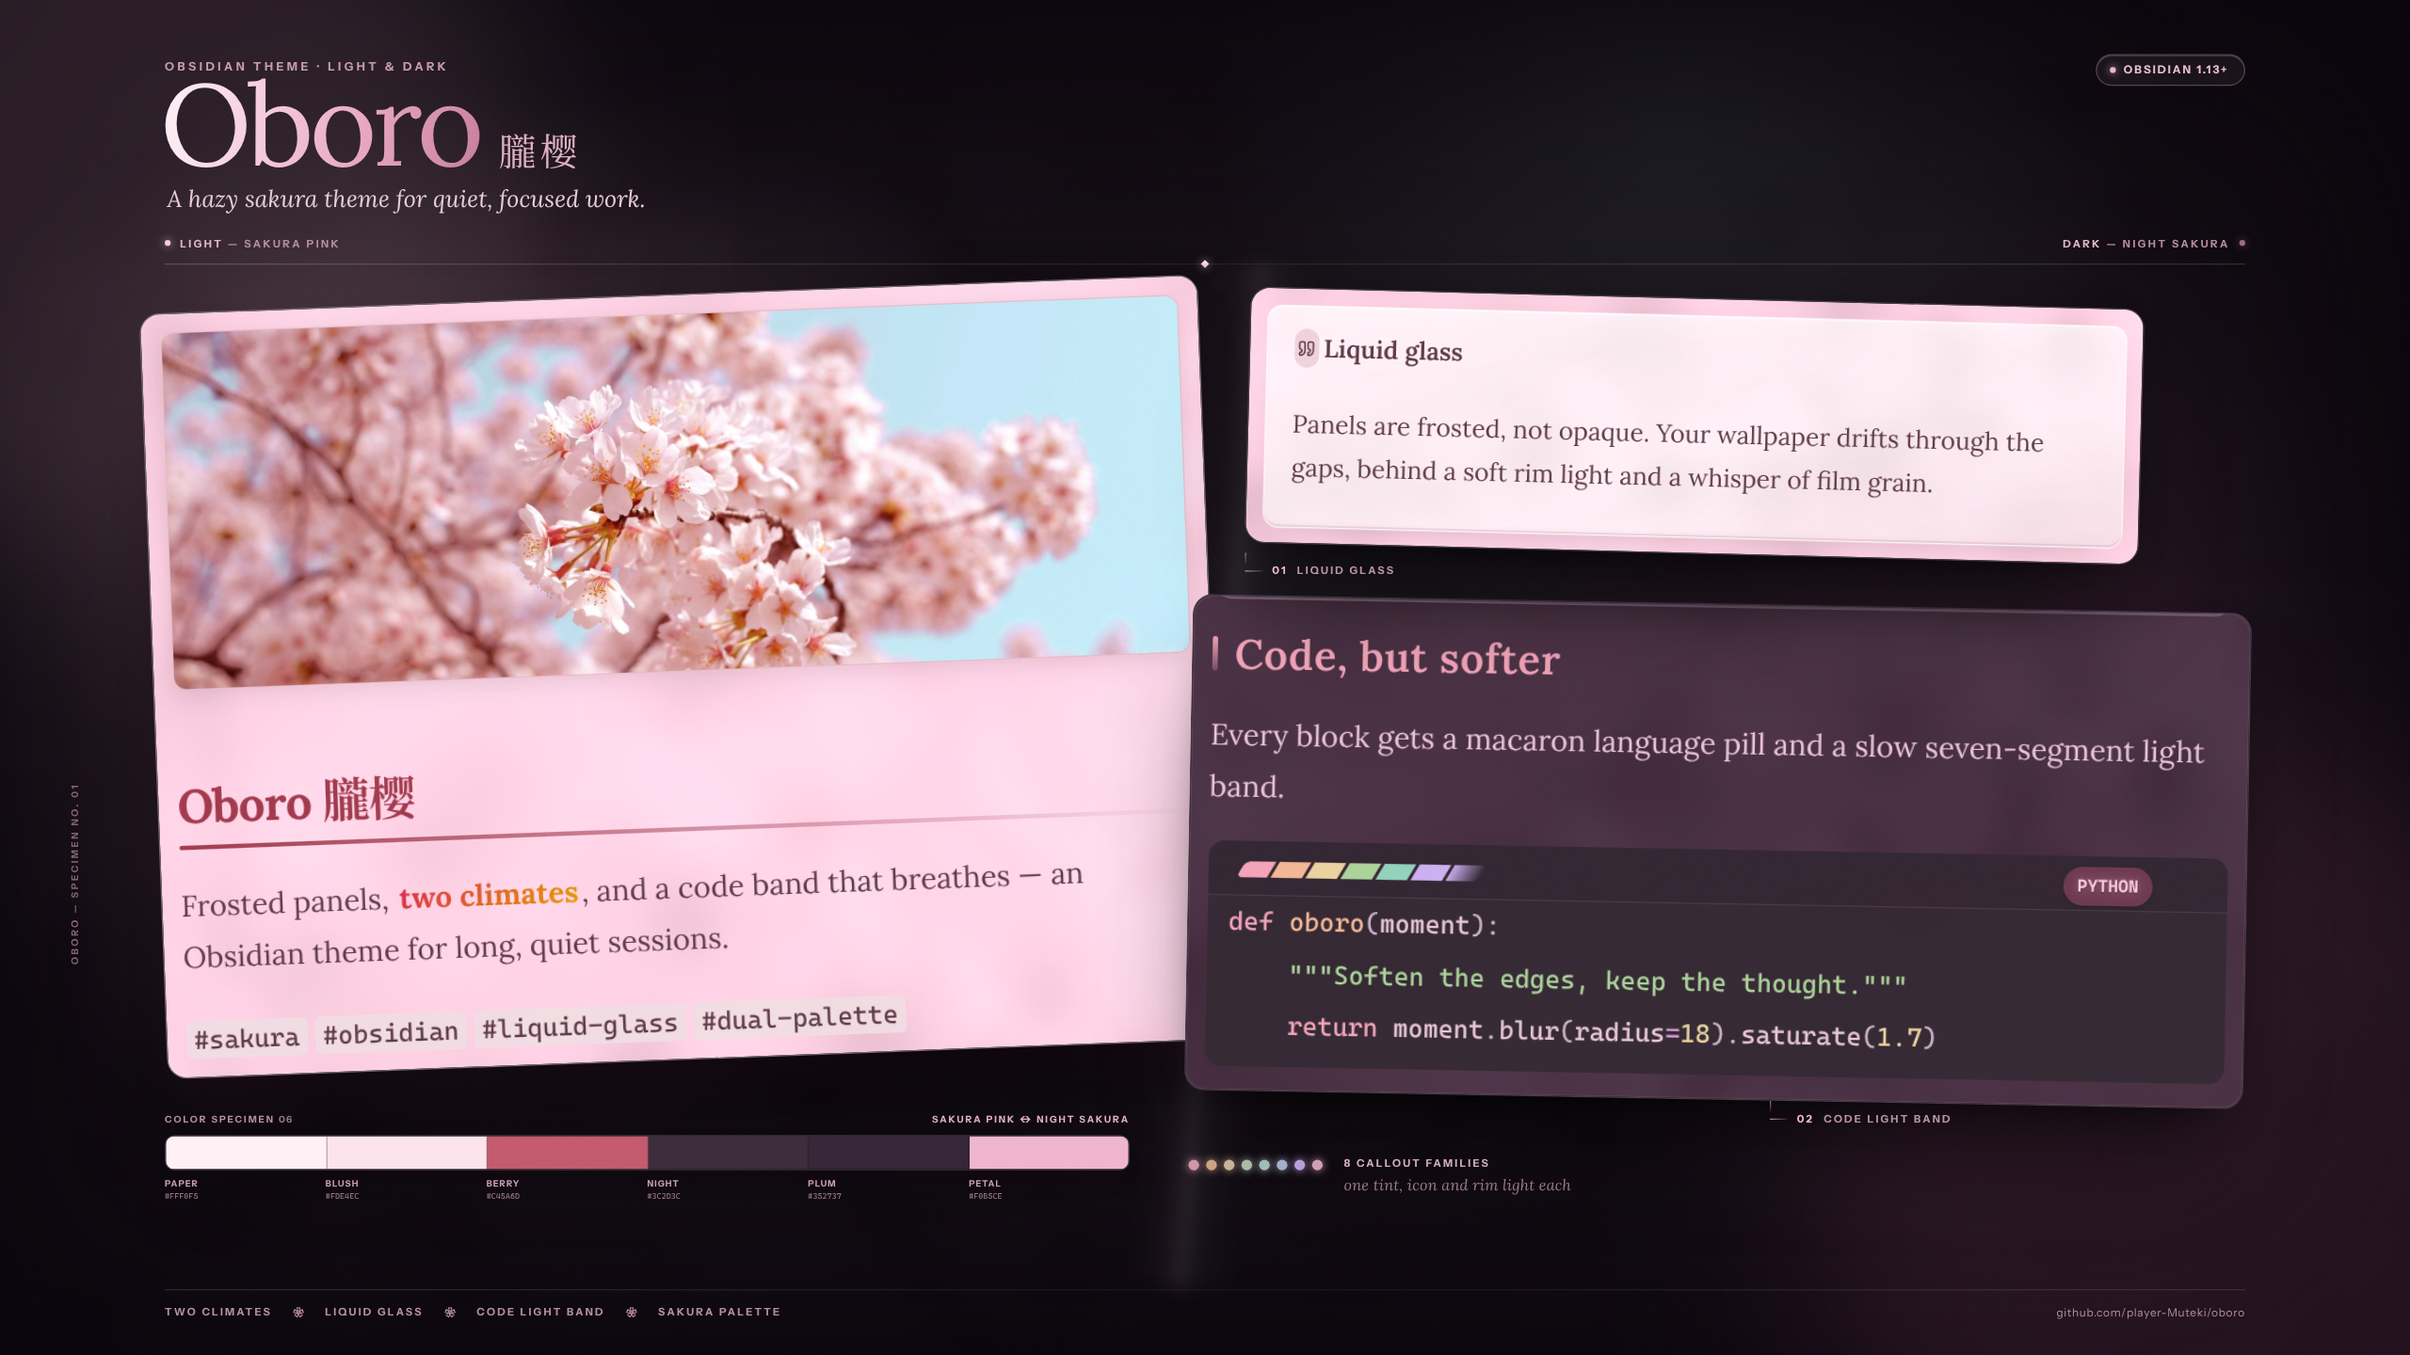
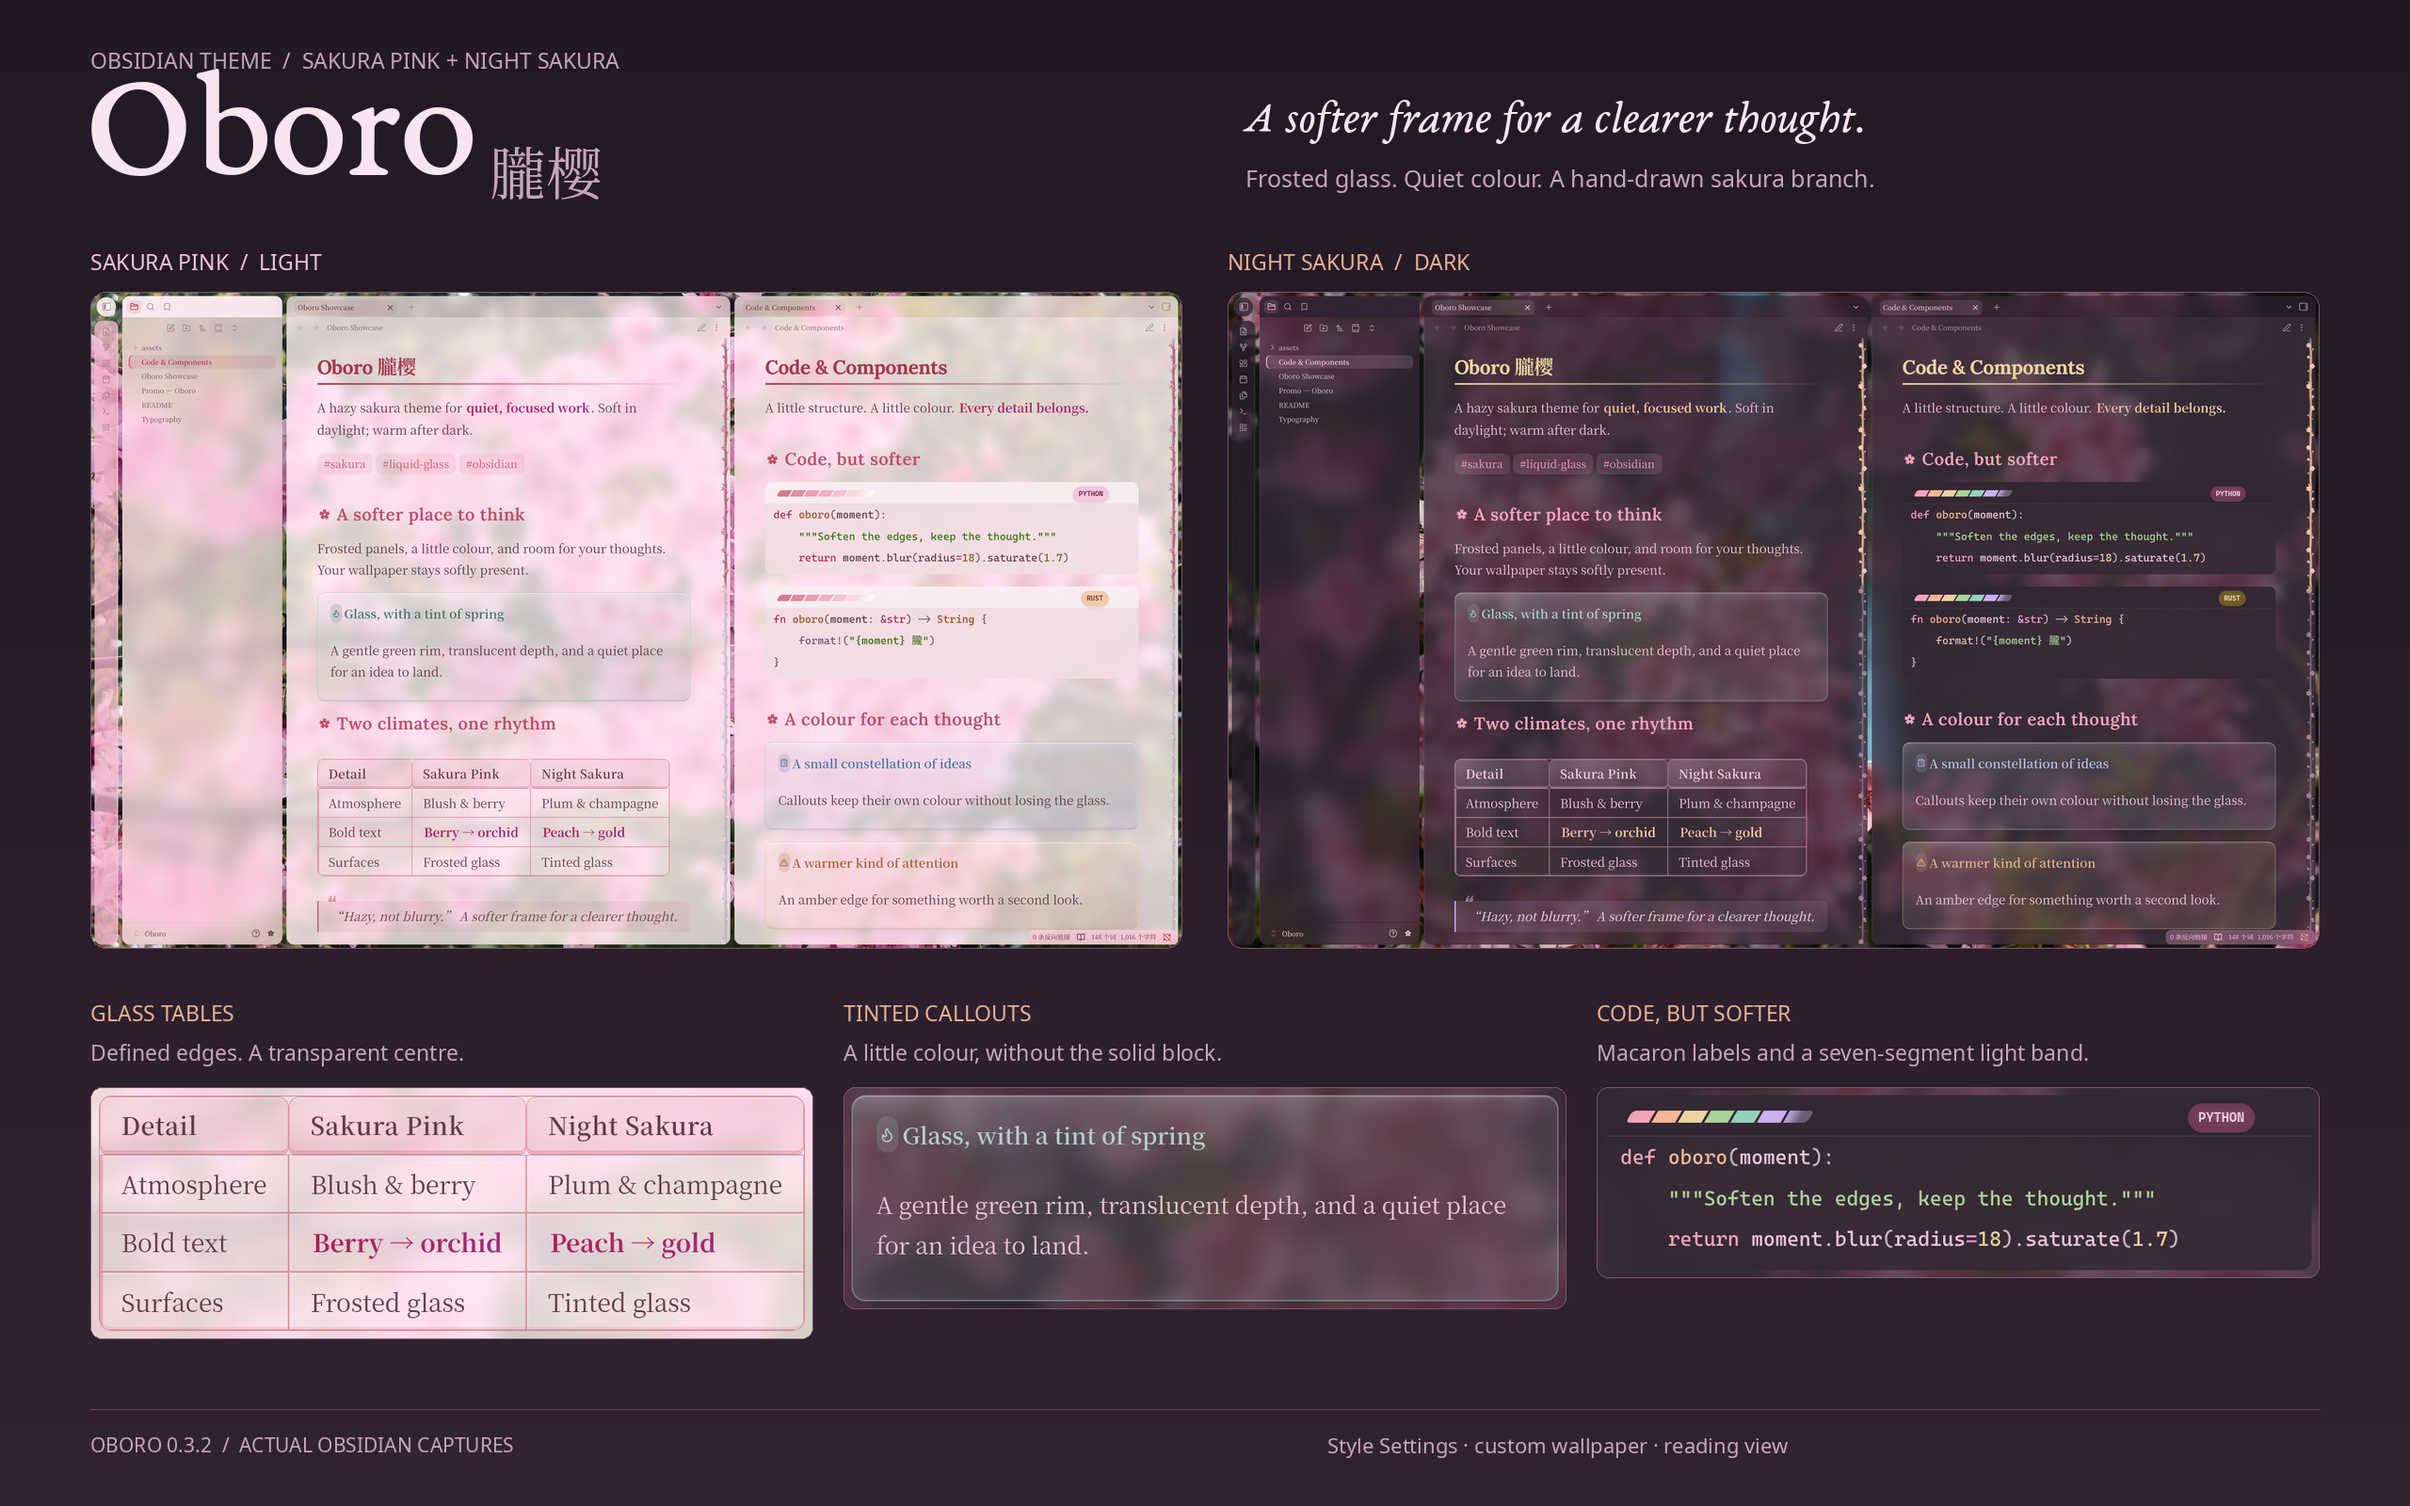
docs: 更新实装截图与樱枝细节配图

diff --git a/scripts/build-promo.py b/scripts/build-promo.py
@@ -1,0 +1,131 @@
+#!/usr/bin/env python3
+"""Compose documentation artwork from real captures and the scrollbar SVG master.
+
+Requires Pillow, Fontconfig, Inkscape. Never retouches the captured UI.
+Run from any directory: python3 scripts/build-promo.py
+"""
+import io
+import json
+from pathlib import Path
+import subprocess
+import sys
+import tempfile
+
+from PIL import Image, ImageDraw, ImageFont
+
+sys.dont_write_bytecode = True
+from scrollbar_art import render_art
+
+ROOT = Path(__file__).resolve().parent.parent
+OUT = ROOT / 'screenshots'
+META = json.loads((OUT / 'capture.json').read_text())
+INK = '#F7E6EF'
+MUTED = '#C5A7B8'
+ACCENT = '#E6B397'
+
+
+def font(family, size):
+    path = subprocess.check_output(
+        ['fc-match', family, '-f', '%{file}'], text=True).strip()
+    return ImageFont.truetype(path, size)
+
+
+def text(canvas, xy, value, size=26, color=INK, family='Noto Sans'):
+    ImageDraw.Draw(canvas).text(xy, value, fill=color, font=font(family, size))
+
+
+def background(size):
+    canvas = Image.new('RGB', size)
+    draw = ImageDraw.Draw(canvas)
+    top, bottom = (35, 24, 37), (50, 34, 49)
+    for y in range(size[1]):
+        t = y / (size[1] - 1)
+        color = tuple(round(a + (b - a) * t) for a, b in zip(top, bottom))
+        draw.line((0, y, size[0], y), fill=color)
+    return canvas
+
+
+def framed(canvas, source, xy, width, radius=16):
+    image = source.resize((width, round(source.height * width / source.width)),
+                          Image.Resampling.LANCZOS)
+    mask = Image.new('L', image.size)
+    ImageDraw.Draw(mask).rounded_rectangle((0, 0, image.width - 1, image.height - 1),
+                                          radius=radius, fill=255)
+    canvas.paste(image, xy, mask)
+    x, y = xy
+    ImageDraw.Draw(canvas).rounded_rectangle(
+        (x, y, x + image.width - 1, y + image.height - 1),
+        radius=radius, outline='#765566', width=1)
+
+
+def crop(source, name, padding=8):
+    rect = META['rects'][name]
+    scale = META['viewport']['deviceScaleFactor']
+    x, y, w, h = (rect[k] for k in ('x', 'y', 'width', 'height'))
+    return source.crop(tuple(round(v * scale) for v in
+                       (x - padding, y - padding, x + w + padding, y + h + padding)))
+
+
+def promo(light, dark):
+    canvas = background((2560, 1600))
+    draw = ImageDraw.Draw(canvas)
+    text(canvas, (96, 48), 'OBSIDIAN THEME  /  SAKURA PINK + NIGHT SAKURA', 23, MUTED)
+    text(canvas, (89, 66), 'Oboro', 164, family='EB Garamond')
+    text(canvas, (520, 137), '朧樱', 60, MUTED, 'Noto Serif CJK SC')
+    text(canvas, (1320, 105), 'A softer frame for a clearer thought.', 48,
+         family='EB Garamond:style=Italic')
+    text(canvas, (1323, 172), 'Frosted glass. Quiet colour. A hand-drawn sakura branch.', 25, MUTED)
+    text(canvas, (96, 262), 'SAKURA PINK  /  LIGHT', 23, '#F0C7D9')
+    text(canvas, (1304, 262), 'NIGHT SAKURA  /  DARK', 23, ACCENT)
+    framed(canvas, light, (96, 310), 1160)
+    framed(canvas, dark, (1304, 310), 1160)
+    details = [
+        (96, 'GLASS TABLES', 'Defined edges. A transparent centre.', crop(light, 'table')),
+        (896, 'TINTED CALLOUTS', 'A little colour, without the solid block.', crop(dark, 'callout')),
+        (1696, 'CODE, BUT SOFTER', 'Macaron labels and a seven-segment light band.', crop(dark, 'code')),
+    ]
+    for x, title, subtitle, image in details:
+        text(canvas, (x, 1060), title, 23, ACCENT)
+        text(canvas, (x, 1102), subtitle, 23, MUTED)
+        framed(canvas, image, (x, 1155), 768, 12)
+    draw.line((96, 1497, 2464, 1497), fill='#634655')
+    text(canvas, (96, 1520), f"OBORO {META['version']}  /  ACTUAL OBSIDIAN CAPTURES", 21, MUTED)
+    text(canvas, (1410, 1520), 'Style Settings · custom wallpaper · reading view', 22, MUTED)
+    canvas.save(OUT / 'promo.png', optimize=True)
+
+
+def scrollbar_detail():
+    canvas = background((2000, 1300))
+    text(canvas, (80, 45), 'OBORO  /  SCROLLBAR ART STUDY', 22, MUTED)
+    text(canvas, (75, 72), 'A branch, not a bar.', 104, family='EB Garamond')
+    text(canvas, (82, 214), 'The painting stays still. Your place changes its colour.', 29, MUTED)
+    for index, (mode, active) in enumerate(
+            [('light', False), ('light', True), ('dark', False), ('dark', True)]):
+        x = 80 + index * 470
+        panel = '#FFF0F5' if mode == 'light' else '#3C2D3C'
+        ink = '#7F405B' if mode == 'light' else '#EBC4D7'
+        ImageDraw.Draw(canvas).rounded_rectangle((x, 302, x + 430, 1150),
+                                                radius=18, fill=panel)
+        text(canvas, (x + 30, 329), mode.upper(), 22, ink)
+        text(canvas, (x + 30, 370), 'YOUR PLACE' if active else 'AT REST', 22, ink)
+        with tempfile.TemporaryDirectory(prefix='oboro-art-export-') as folder:
+            svg, png = Path(folder) / 'branch.svg', Path(folder) / 'branch.png'
+            svg.write_text(render_art(mode, active))
+            subprocess.run(['inkscape', str(svg), '--export-type=png',
+                            f'--export-filename={png}', '--export-width=63',
+                            '--export-height=672'], check=True, capture_output=True)
+            art = Image.open(io.BytesIO(png.read_bytes())).convert('RGBA')
+            canvas.paste(art, (x + 183, 445), art)
+    text(canvas, (80, 1190), 'One original drawing · four palettes · identical geometry', 25, MUTED)
+    text(canvas, (80, 1233), 'SVG artwork enlarged 3.5× for detail; not a screenshot or the actual scrollbar size.', 21, MUTED)
+    canvas.save(OUT / 'scrollbar-detail.png', optimize=True)
+
+
+if __name__ == '__main__':
+    with Image.open(OUT / 'screenshot-light.png') as light, Image.open(OUT / 'screenshot-dark.png') as dark:
+        expected = tuple(round(META['viewport'][k] * META['viewport']['deviceScaleFactor'])
+                         for k in ('width', 'height'))
+        assert light.size == dark.size == expected, 'Capture metadata and images must match'
+        promo(light, dark)
+    scrollbar_detail()
+    print('Updated screenshots/promo.png and screenshots/scrollbar-detail.png')

diff --git a/screenshots/README.md b/screenshots/README.md
@@ -1,0 +1,64 @@
+# Preview assets / 截图与配图
+
+Updated **2026-11-01**, for **Oboro 0.3.2**.
+
+## What is shown
+
+- `screenshot-light.png` / `screenshot-dark.png`: actual **Obsidian 1.14.5** captures of
+  an isolated demonstration vault, with two notes in reading view. No private notes are shown.
+- `promo.png`: an editorial composition of those captures and crops of their table, callout
+  and code block. UI pixels are not repainted or replaced with mockups.
+- `scrollbar-detail.png`: the actual scrollbar SVG master rendered in all four theme palettes,
+  **enlarged 3.5×**. This is an artwork study, **not** an application screenshot, not the actual
+  scrollbar size and not a demonstration of thumb movement or its end fades.
+- `capture.json`: capture dimensions, typography, glass parameters and crop rectangles in
+  CSS pixels. The composition script uses these instead of guessing coordinates.
+
+## Capture configuration / 截图配置
+
+The demonstration vault uses the released `theme.css` and `manifest.json`, plus
+**Style Settings 1.0.9**. Only the theme's `oboro@@…` settings were copied from the daily vault;
+no unrelated plugins, notes or dashboard snippets were copied.
+
+| Setting | Value |
+| --- | --- |
+| Main panel opacity / 主面板实度 | 80% |
+| Sidebar opacity / 侧栏实度 | 72% |
+| Solid mode / 实色模式 | Off |
+| Glass saturation / 玻璃饱和度 | 170% |
+| Glass brightness / 玻璃亮度 | 108% |
+| Glass blur / 玻璃模糊 | Theme default, 18px |
+| Interface and text font / 界面与正文字体 | Noto Serif CJK SC, Lora |
+| Monospace font preference / 等宽字体首选 | Cascadia Code |
+| Text size / 正文字号 | 23px |
+| Custom accent / 自定义强调色 | `#c08890` |
+| CSS viewport | 2048 × 1232 |
+| Device scale | 1.25 |
+| Export size | 2560 × 1540 PNG |
+
+Both modes use the corresponding sakura wallpaper from the user's daily vault. Backgrounds
+are provided through `--dv-light-bg` / `--dv-dark-bg`, not by changing the theme. Their original
+image files are **not bundled or redistributed** in this repository. These previews therefore
+show a configured appearance, not the out-of-the-box wallpaper-free appearance.
+
+Capture through Obsidian's `dev:cdp method=Page.captureScreenshot`: the ordinary
+`dev:screenshot` command can temporarily hide scrollbars. Check the target vault **before every
+capture or configuration change**, allow repainting, and clear temporary viewport emulation
+when finished. Desktop captures do not replace iPad/mobile WebKit testing.
+
+## Rebuild the composed artwork / 重建配图
+
+Dependencies: Python 3 with **Pillow**, **Fontconfig**, **Inkscape**, and the
+**EB Garamond**, **Noto Sans** and **Noto Serif CJK SC** fonts. These are documentation tools,
+not theme runtime requirements.
+
+```sh
+python3 scripts/build-promo.py
+```
+
+Inputs: the two real screenshots, `capture.json`, and `scripts/assets/scrollbar-art.svg`
+with its palette mappings in `scripts/scrollbar_art.py`. Outputs: `promo.png` and
+`scrollbar-detail.png`. The script does not launch Obsidian or modify any vault.
+
+For a future capture, update both screenshots and `capture.json` together, then rebuild.
+Do not relabel an old capture with a new version without actually updating the installed theme.

diff --git a/README.md b/README.md
@@ -11,7 +11,10 @@ palette — one theme, two editors.
 
 ## Preview
 
-![Oboro — light and dark specimen board](screenshots/promo.png)
+![Oboro 0.3.2 — actual light/dark views with glass table, callout and code details](screenshots/promo.png)
+
+Captured in Obsidian with **Style Settings**, custom sakura wallpapers, and the same glass parameters in both modes.
+Wallpapers are user-supplied, not bundled. [Capture setup and artwork sources](screenshots/README.md).
 
 Sakura Pink (light):
 
@@ -20,6 +23,16 @@ Sakura Pink (light):
 Night Sakura (dark):
 
 ![Night Sakura dark mode](screenshots/screenshot-dark.png)
+
+<details>
+<summary>Painted sakura scrollbar — four-palette detail study</summary>
+
+![Enlarged sakura scrollbar artwork: light and dark, at rest and highlighted](screenshots/scrollbar-detail.png)
+
+The SVG is enlarged 3.5× for inspection, not shown at its actual UI size. The branch stays fixed;
+only the original bark and blossoms under the thumb change colour.
+
+</details>
 
 ## Features
 
@@ -37,6 +50,7 @@ Night Sakura (dark):
   (C, C++, C#, x86, ASM, Verilog, Java, Python, Rust), all contrast ≥ 4.5:1.
 - **Gradient bold** — light "berry → purple", dark "soft peach gold → champagne gold", with inline-code /
   nested-math fixes and solid-text fallbacks for print/PDF and forced colors.
+- **Painted sakura scrollbars** — detailed bark, petals and buds; a stationary transparent branch with a locally recoloured scroll-position highlight across editor and sidebar panels.
 - **Six-level heading color ladder** + serif heading stack (Lora → Source Han Serif → Songti).
 - **Engineering** — official stylelint rules, version / SVG consistency checks, validated tag-triggered draft releases,
   isolated browser regressions, and mobile background positioning adaptation.

diff --git a/CHANGELOG.md b/CHANGELOG.md
@@ -7,6 +7,10 @@
 
 ## [Unreleased]
 
+### Documentation
+
+- 更新 0.3.2 明暗模式实装截图：测试库安装 Style Settings，沿用日常配置的樱花背景、字体和玻璃参数；重制宣传图，新增樱枝四色原画细节图、截图参数记录及配图生成脚本。
+
 ## [0.3.2] - 2026-11-01
 
 ### Fixed
